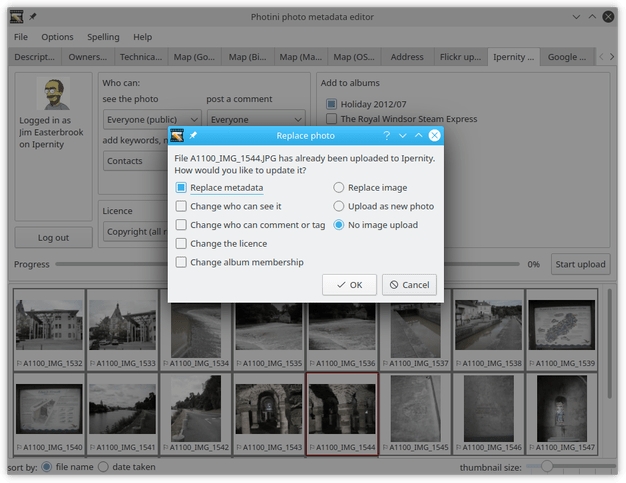
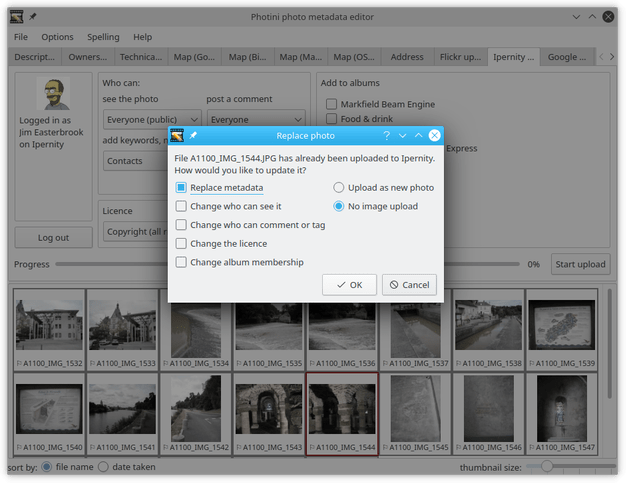
Remove 'replace' option from Ipernity docs
The "replace image" option doesn't work (it uploads as a new image) and
has already been removed from the program.

Changed region(s): [[0.516, 0.3727, 0.6981, 0.4969], [0.516, 0.1863, 0.7588, 0.3106]]

diff --git a/src/photini/__init__.py b/src/photini/__init__.py
@@ -1,4 +1,4 @@
 """Full documentation is at https://photini.readthedocs.io/"""
 
 __version__ = '2022.2.0'
-build = '1992 (b373b89)'
+build = '1993 (d781ef2)'

diff --git a/src/doc/manual/ipernity.rst b/src/doc/manual/ipernity.rst
@@ -88,6 +88,5 @@ If you change your image file metadata and would like to make the same changes o
 .. image:: ../images/screenshot_242.png
 
 If you upload an image that already has a ``ipernity:id`` keyword then Photini allows you to change the photograph's metadata instead of uploading a new photograph.
-You can also replace the image itself, which might be useful if you've processed it in another application.
 
 .. _triple tag: https://en.wikipedia.org/wiki/Tag_(metadata)#Triple_tags
